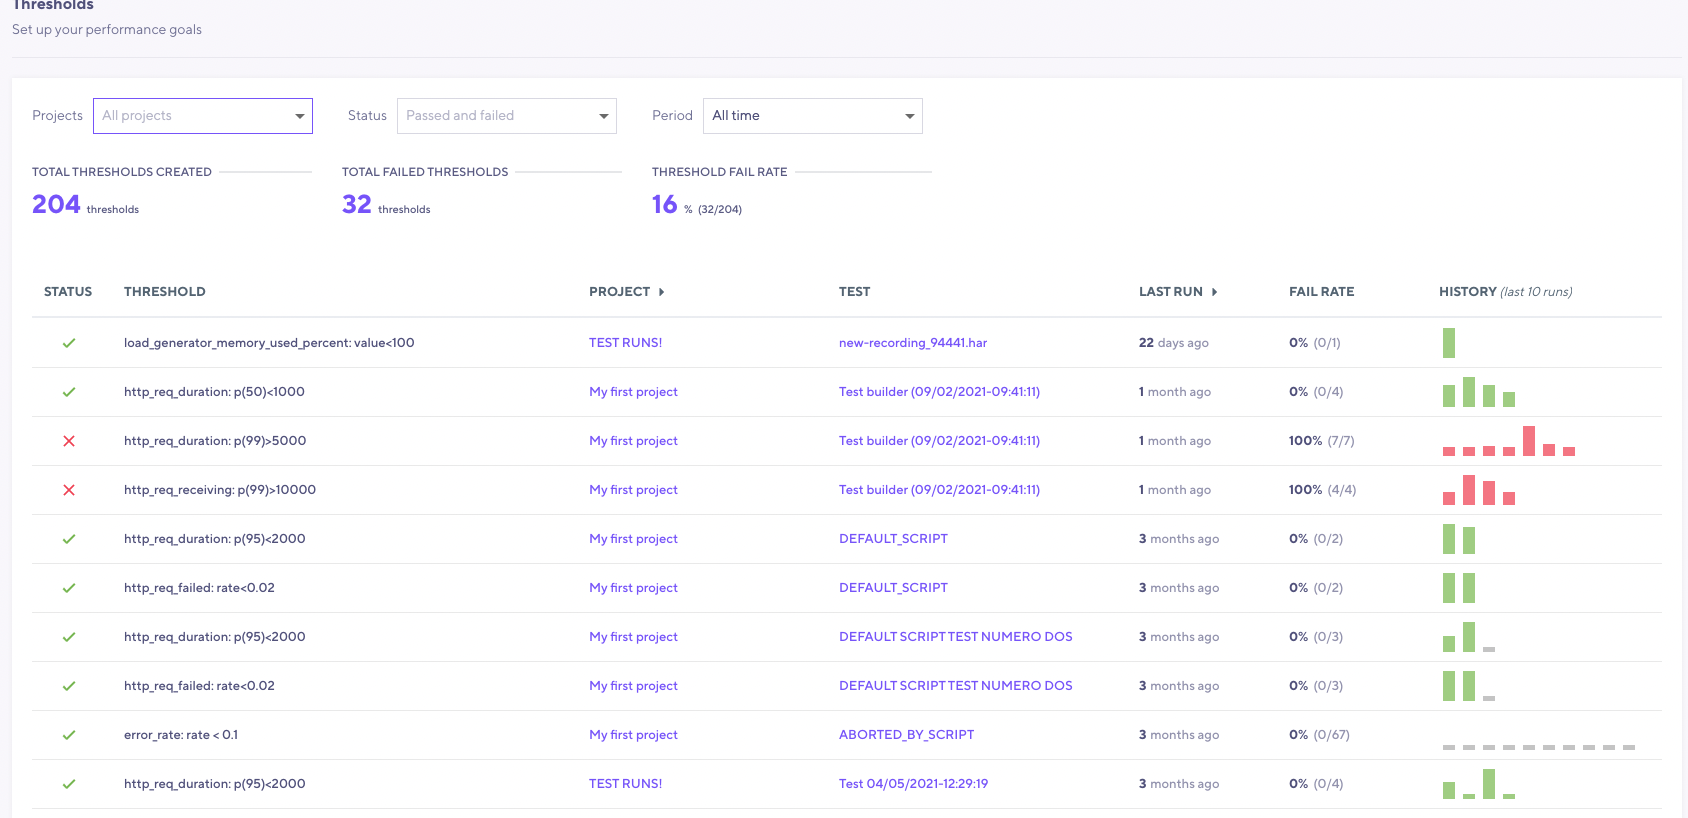
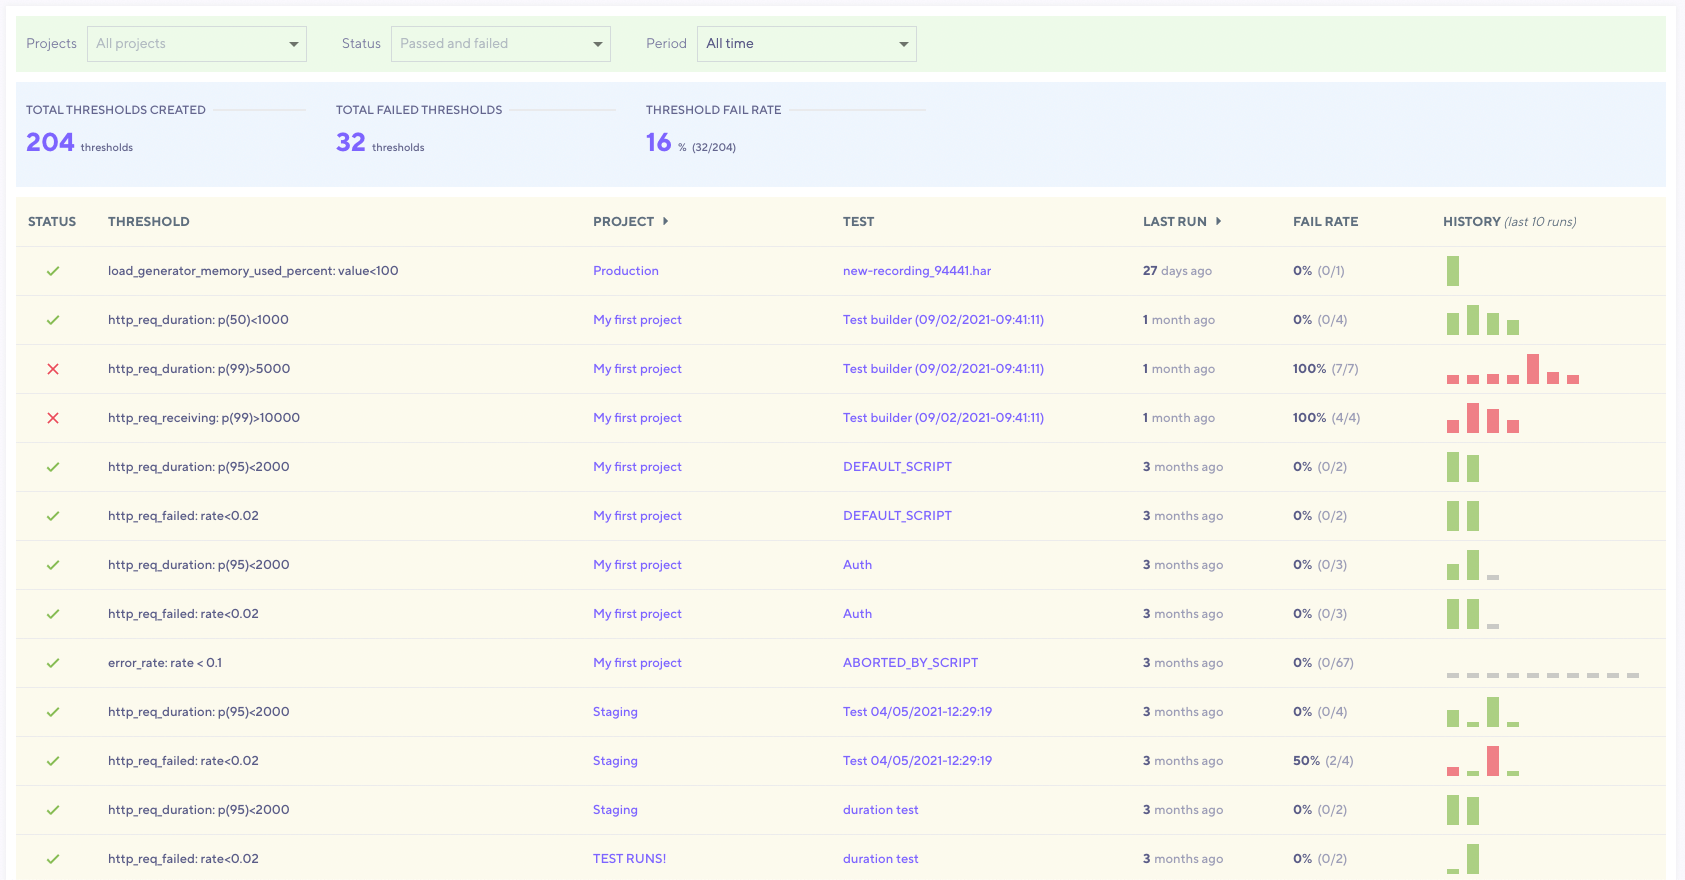
Thresholds discoverability screenshot update

diff --git a/src/data/markdown/docs/03 cloud/04 Project and Team Management/06 Thresholds.md b/src/data/markdown/docs/03 cloud/04 Project and Team Management/06 Thresholds.md
@@ -12,13 +12,13 @@ The Thresholds page can be found in the **Manage** section of the left menu.
 
 It can be broken down into:
 
-**Filtering section**<br/>
+**Filtering section (highlighted in green)**<br/>
 This is where you can narrow down the results by filtering by: `Projects`, `Status` and `Period`.
 
-**Overview section**<br/>
+**Overview section (highlighted in blue)**<br/>
 In this section you see the overview numbers of all your organization's thresholds.
 
-**Threshold listing**<br/>
+**Threshold listing (highlighted yellow)**<br/>
 Here are the thresholds and their accompanying data.
 
 | Column        | Description                                                                                                                                                                                                                       |
@@ -27,7 +27,7 @@ Here are the thresholds and their accompanying data.
 | **Threshold** | Threshold metric name and criteria.                                                                                                                                                                                               |
 | **Project**   | The project to which the threshold test belongs to.                                                                                                                                                                               |
 | **Test**      | The name of the test of the threshold with a link to its most recent run.                                                                                                                                                         |
-| **Last run**  | The time the test was last run .                                                                                                                                                                                                  |
+| **Last run**  | The time the test was last run.                                                                                                                                                                                                  |
 | **Fail rate** | The number of threshold failures vs. the number of times the test of the threshold has been run.                                                                                                                                  |
 | **History**   | History chart that visualizes the threshold results for the last 10 test runs.                                                                                                                                                    |
 
